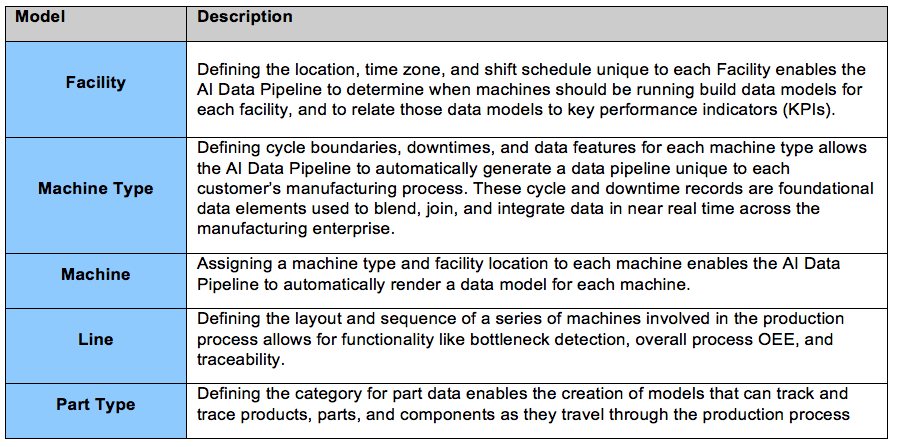
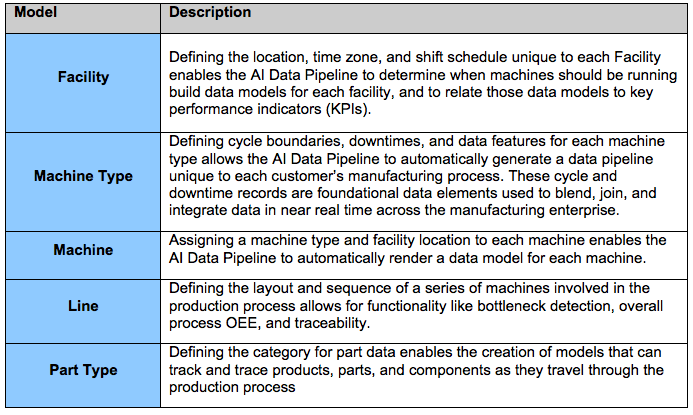
Updates README.md
Auto commit by GitBook Editor

diff --git a/README.md b/README.md
@@ -25,13 +25,13 @@ Sight Machine currently offers eleven manufacturing-specific data models. Of the
 
 **User-Configured Models**
 
-
+![](/assets/User-Configured Models Table.png)
 
 **NOTE: **This guide covers only Facility, Machine Type, and Machine. For more information, see [Configuring Models](/configuring-models.md).
 
 **AI-Configured Models**
 
-
+![](/assets/AI-Configured Models Table.png)
 
 **NOTE: **This guide covers only Cycles and Downtimes. For more information, see [Configuring a Machine Type](/configuring-models/configuring-a-machine-type.md).
 
